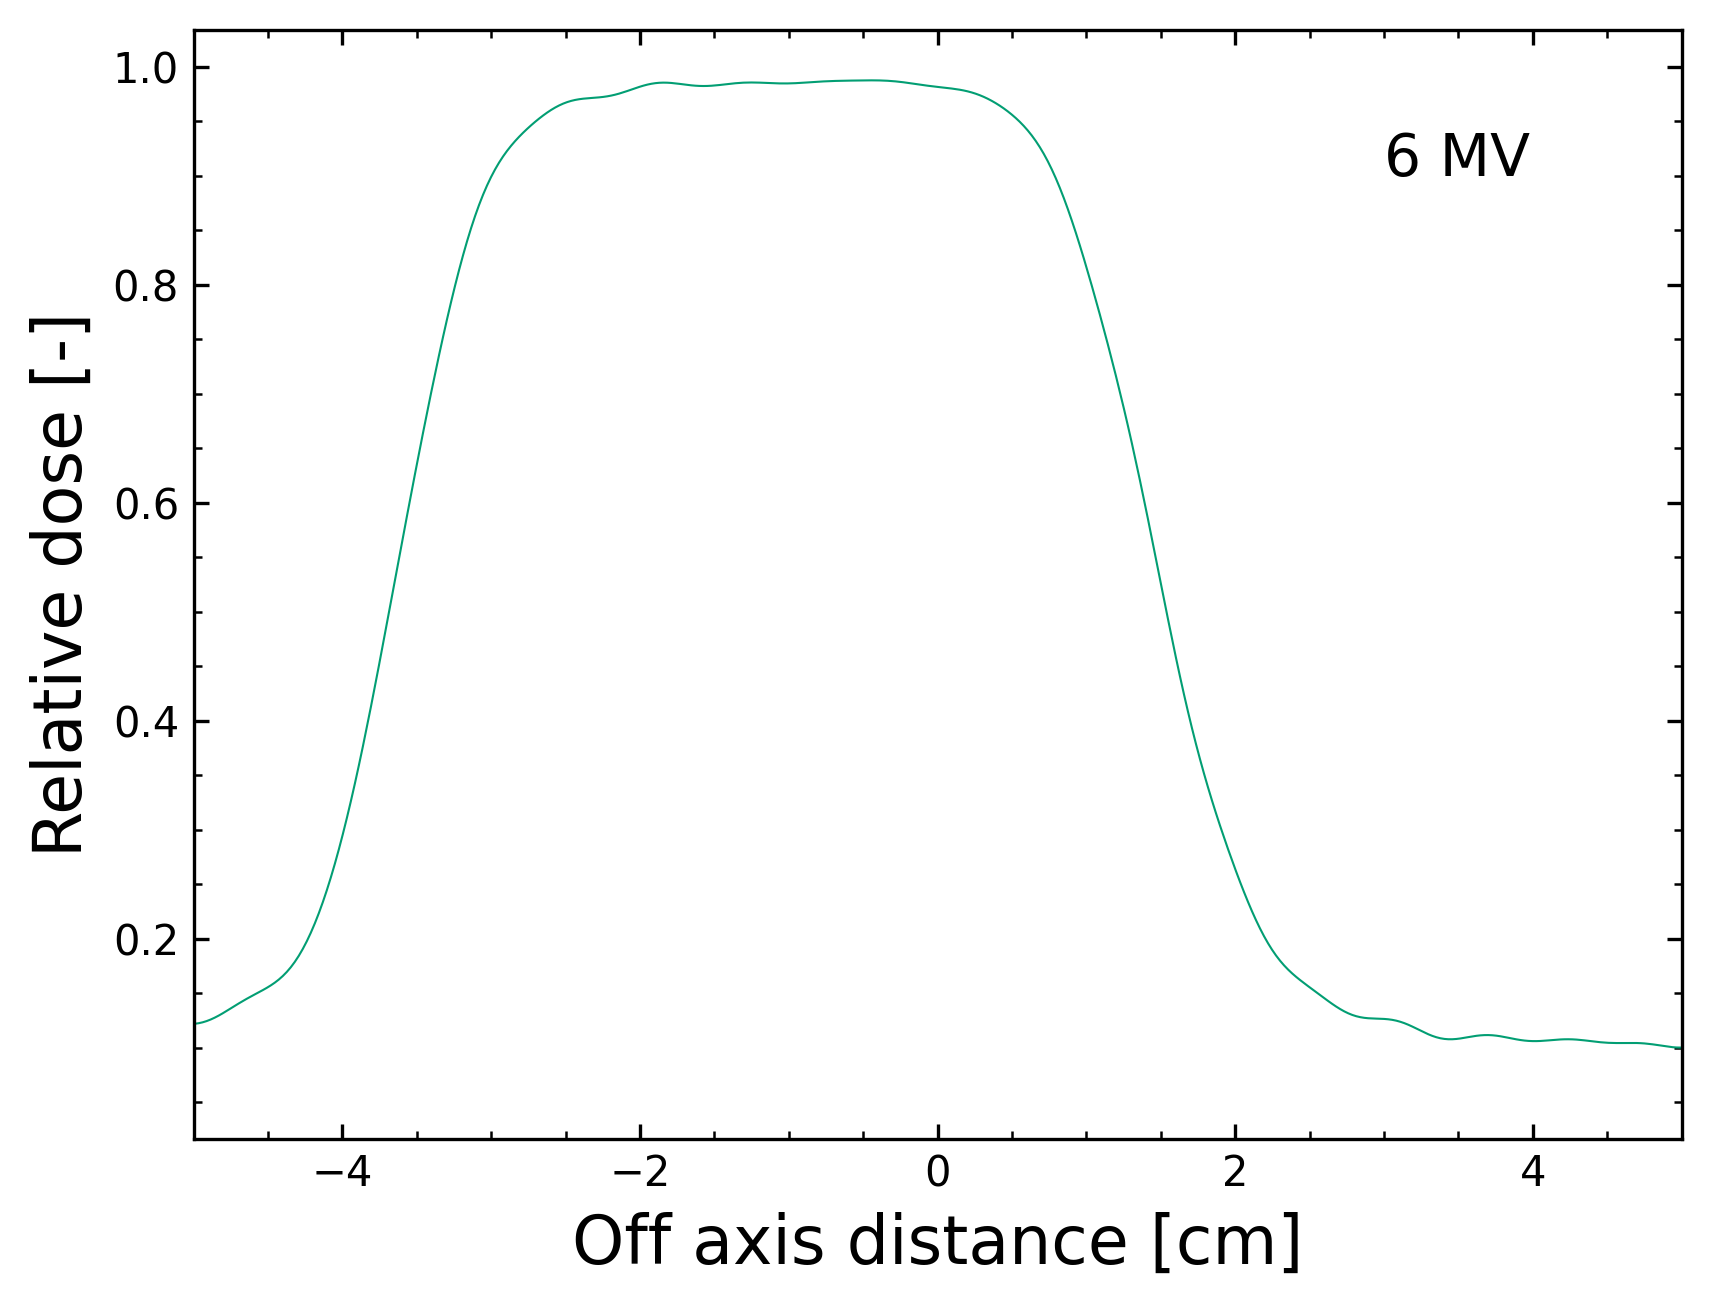
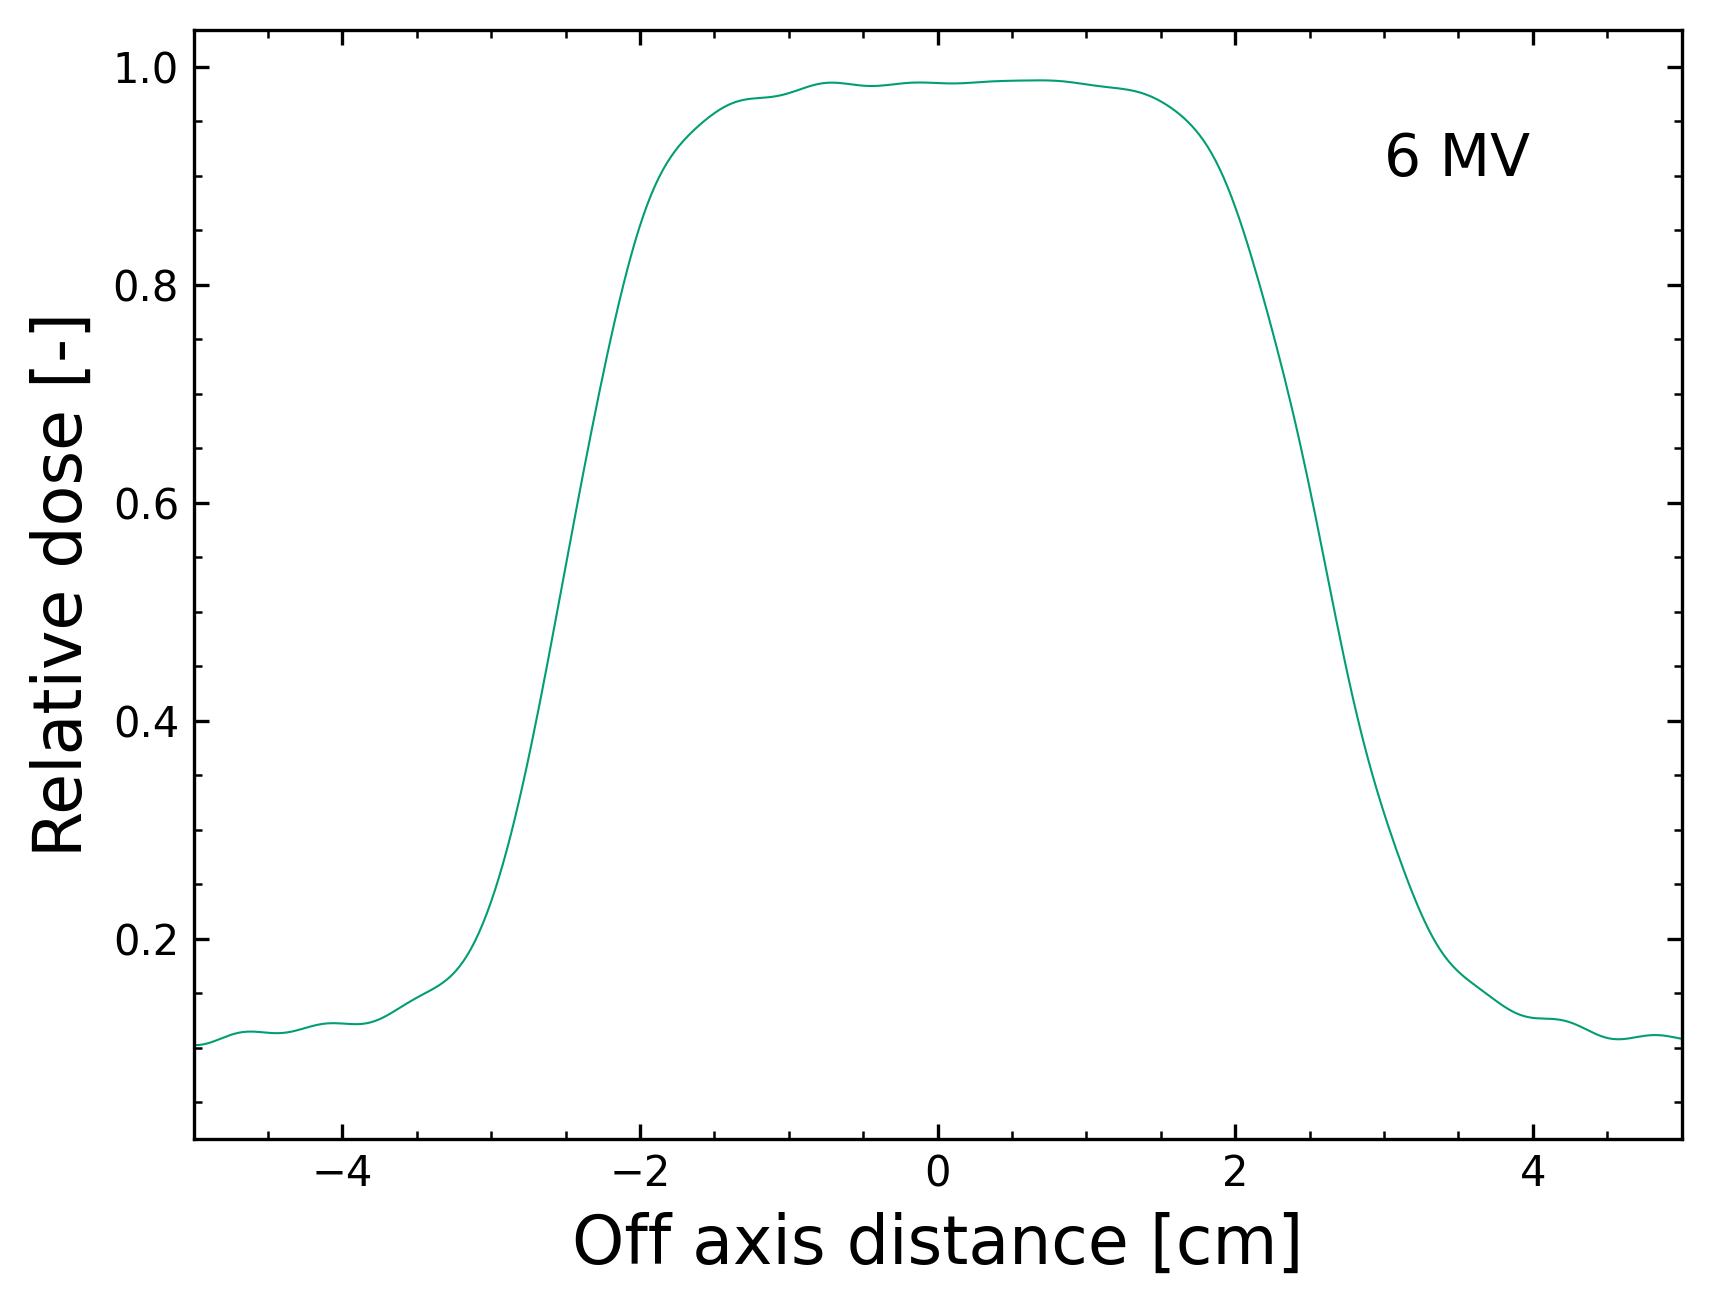
Centering_profiles

Changed region(s): [[0.4027, 0.0612, 0.5885, 0.0917], [0.8673, 0.7645, 0.9293, 0.7951], [0.1239, 0.7645, 0.1549, 0.7951]]

diff --git a/LINAC/image_analysis.py b/LINAC/image_analysis.py
@@ -4,7 +4,6 @@ import numpy as np
 import matplotlib.pyplot as plt
 import seaborn as sns
 import glob
-import sys
 
 class Profile:
     def __init__(self, checkerboard, diagonal_square_size, path, energy, calib_image_index=0):
@@ -59,24 +58,30 @@ class Profile:
         reconstructed_data = np.fft.irfft(dft_thresholded_10)
         return reconstructed_data
 
-    def central_axis(self):
-        central_axis = []
-        for improved_image in self.improved_images:
-            img = plt.imread(improved_image)
-            central_axis.append(img[0].size // 2)
-        print(central_axis)
-        return central_axis
+    def central_axis(self, relative_intensity):
+        range_plateau = max(relative_intensity) - 0.2
+        max_index = np.argmax(relative_intensity)
+        left_half = relative_intensity[:max_index]
+        right_half = relative_intensity[max_index + 1:]
+
+        left_point = next((len(left_half) - i - 1 for i, intensity in enumerate(left_half[::-1]) if intensity <= range_plateau), max_index)
+        right_point = next((max_index + i + 1 for i, intensity in enumerate(right_half) if intensity <= range_plateau), max_index)
+
+        median_index = (left_point + right_point) // 2
+        return median_index
 
     def plot_grayvalue_profile(self):
         intensity_profiles = self.grayvalues()[0]
         directory = f"{self.path}/Profile/{self.energy}"
-        if not os.path.exists(directory):
-            os.makedirs(directory)
+        os.makedirs(directory, exist_ok=True)
+
         for index, intensity in enumerate(intensity_profiles):
             relative_intensity = intensity / self.grayvalues()[1][index]
             reconstructed_relative_intensity = self.curve_fft(relative_intensity)
-            off_ax_position_pix = np.linspace(-len(reconstructed_relative_intensity) / 2, len(reconstructed_relative_intensity) / 2, len(reconstructed_relative_intensity))
+            median_index = self.central_axis(reconstructed_relative_intensity)
+            off_ax_position_pix = np.linspace(- median_index, len(reconstructed_relative_intensity) - median_index, len(reconstructed_relative_intensity))
             off_ax_position_cm = off_ax_position_pix * self.pixel_converter[0] /10
+
             fig, ax = plt.subplots()
             palette = sns.color_palette("colorblind")
             ax.plot(off_ax_position_cm, reconstructed_relative_intensity, color=palette[2], linewidth="0.5")
@@ -85,14 +90,16 @@ class Profile:
             ax.set_ylabel("Relative dose [-]", fontsize=16)
             ax.set_xlabel("Off axis distance [cm]", fontsize=16)
             ax.set_xlim(-5, 5)
+
             numbers = "".join(filter(str.isdigit, self.energy))
             text = "".join(filter(str.isalpha, self.energy))
             ax.text(x=3, y=0.9, s="{0} {1}".format(numbers, text), fontsize=14)
+
             plt.savefig("{0}/{1}.png".format(directory, self.get_file_names()[index]), bbox_inches="tight", dpi=300)
             plt.close(fig)
 
-date = "2023-06-27"
-energy = "6MV"
+date = "2023-07-10"
+energy = "18MV"
 path = f"Measurements/{date}"
 checkerboard = (7, 10)
 diagonal = 25

diff --git a/LINAC/test_pdd.py b/LINAC/test_pdd.py
@@ -99,14 +99,15 @@ class Profile:
             ax.tick_params(top=True, right=True, axis="both", which="both", direction='in')
             ax.set_ylabel("Percentage depth dose [-]", fontsize=16)
             ax.set_xlabel("Depth [cm]", fontsize=16)
+            ax.set_xlim(0, 8)
             numbers = "".join(filter(str.isdigit, self.energy))
             text = "".join(filter(str.isalpha, self.energy))
-            ax.text(x=20, y=0.9, s="{0} {1}".format(numbers, text), fontsize=14)
+            ax.text(x=6, y=0.9, s="{0} {1}".format(numbers, text), fontsize=14)
             plt.savefig("{0}/{1}.png".format(directory, self.get_file_names()[index]), bbox_inches="tight", dpi=300)
             plt.close(fig)
 
-date = "2023-06-27"
-energy = "6MV"
+date = "2023-07-10"
+energy = "6MeV"
 path = f"Measurements/{date}"
 checkerboard = (7, 10)
 diagonal = 25
